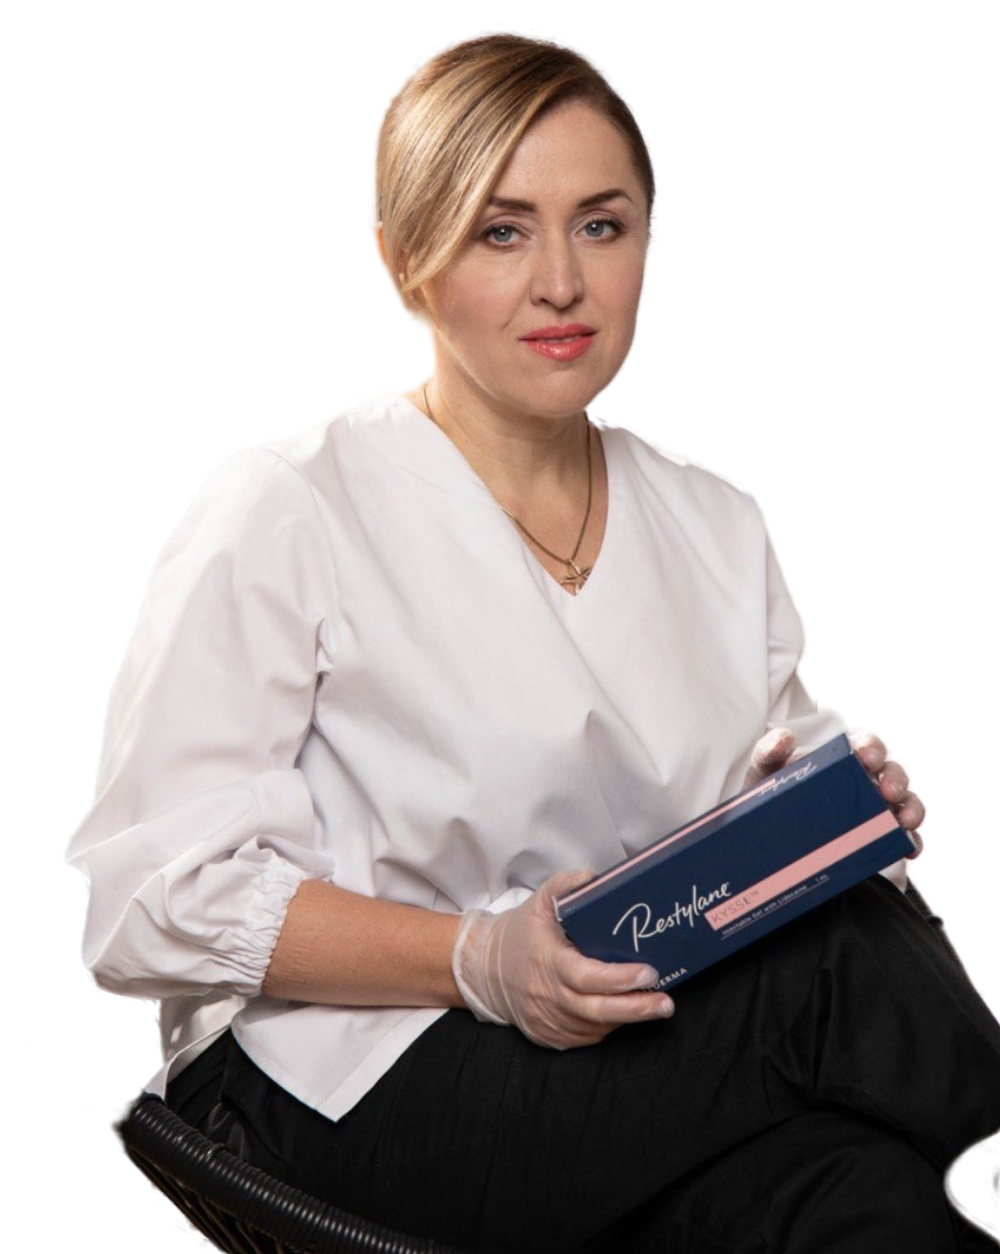
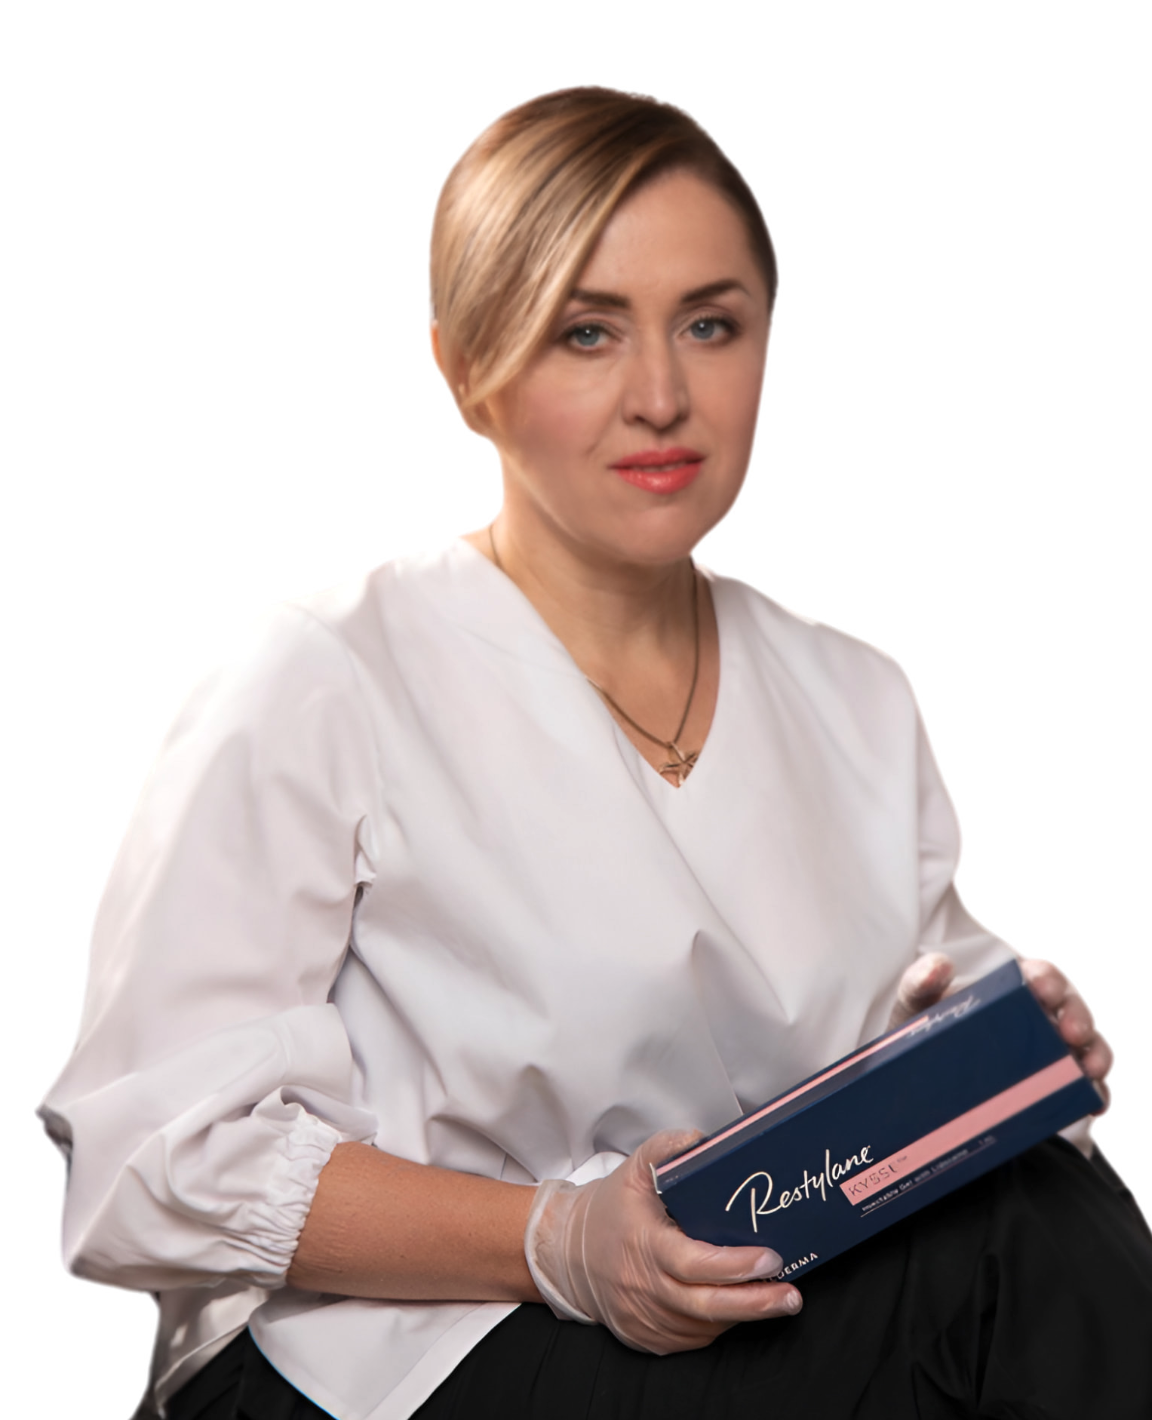
Add clinic images and update employee information

diff --git a/src/components/screens/about/clinic/Clinic.jsx b/src/components/screens/about/clinic/Clinic.jsx
@@ -4,49 +4,21 @@ import Slider from '../../../UI/slider/Slider'
 import { SwiperSlide } from 'swiper/react'
 import Image from 'next/image'
 import s from './Clinic.module.scss'
-import useMediaQuery from '../../../../hooks/useMediaQuery'
 
 export default function Clinic() {
-   const isDesktop = useMediaQuery('(min-width: 1024px)')
-
-   const images = ['/clinic/a.jpg', '/clinic/b.jpg', '/clinic/c.jpg', '/clinic/d.jpg', '/clinic/e.jpg', '/clinic/f.jpg', '/clinic/g.jpg']
+   const images = ['1.jpg', '2.jpg', '3.jpg', '4.jpg', '5.jpg', '6.jpg', '7.jpg', '8.jpg', '9.jpg']
 
    return (
       <Section>
          <Heading>Інтер'єр студії</Heading>
-         <Slider slides={1}>
-            {isDesktop ? (
-               <>
-                  <SwiperSlide>
-                     <div className={s.photos}>
-                        {images.slice(3, -1).map((el, i) => (
-                           <div key={i} className={s.photo}>
-                              <Image quality={100} width={1280} height={960} src={el} alt='' />
-                           </div>
-                        ))}
-                     </div>
-                  </SwiperSlide>
-                  <SwiperSlide>
-                     <div className={s.photosGrid}>
-                        {images.slice(0, 3).map((el, i) => (
-                           <div key={i} className={s.photo}>
-                              <Image quality={100} width={1280} height={960} src={el} alt='' />
-                           </div>
-                        ))}
-                     </div>
-                  </SwiperSlide>
-               </>
-            ) : (
-               <>
-                  {images.map((el, i) => (
-                     <SwiperSlide key={i}>
-                        <div className={s.photo}>
-                           <Image quality={100} width={1280} height={960} src={el} alt='' />
-                        </div>
-                     </SwiperSlide>
-                  ))}
-               </>
-            )}
+         <Slider slides={3}>
+            {images.map((el, i) => (
+               <SwiperSlide key={i}>
+                  <div className={s.photo}>
+                     <Image quality={100} width={1280} height={960} src={`/clinic/${el}`} alt='' />
+                  </div>
+               </SwiperSlide>
+            ))}
          </Slider>
       </Section>
    )

diff --git a/src/components/common/employees/Employees.jsx b/src/components/common/employees/Employees.jsx
@@ -10,7 +10,7 @@ export default function Employees() {
    const employees = [
       {
          name: 'Оксана Розбейко',
-         about: 'Вища медична освіта, косметолог, стаж роботи в косметології 17 років',
+         about: 'Косметолог, вища медична освіта, стаж роботи 17 років',
          image: '/employees/Оксана-Розбейко.jpg',
       },
       {
@@ -18,10 +18,15 @@ export default function Employees() {
          about: 'Косметолог, медична освіта, спеціаліст з апаратних технологій по догляду за обличчям та тілом',
          image: '/employees/Софія-Чеснакова.jpg',
       },
+      {
+         name: 'Оксана Дащенко',
+         about: 'Косметолог, медична освіта, лазеротерапевт: видалення волосся, судин, стаж роботи 5 років',
+         image: '/employees/Оксана-Дащенко.jpg',
+      },
    ]
 
    return (
-      <Slider slides={2}>
+      <Slider slides={3}>
          {employees.map((el, i) => (
             <SwiperSlide key={i}>
                <Employee name={el.name} about={el.about} image={el.image} />

diff --git a/src/components/common/employees/Employee.module.scss b/src/components/common/employees/Employee.module.scss
@@ -1,7 +1,7 @@
 .employee {
    @apply flex flex-col items-center justify-center mb-10 xl:mb-4 text-center;
    .image {
-      @apply border border-accent-1 w-full md:w-[430px] md:h-[570px] rounded-basic object-cover object-bottom;
+      @apply border border-accent-1 w-full md:w-[430px] h-[560px] md:h-[570px] rounded-basic object-cover object-top;
    }
    .name {
       @apply mt-4 text-xl font-medium text-text-1;

diff --git a/src/components/screens/about/clinic/Clinic.module.scss b/src/components/screens/about/clinic/Clinic.module.scss
@@ -19,6 +19,6 @@
 .photo {
    @apply rounded-basic bg-accent-2 p-3 h-full md:h-[604px] 2xl:h-[732px] mb-12 xl:mb-4;
    img {
-      @apply rounded-inner h-full;
+      @apply rounded-inner h-full object-cover;
    }
 }
